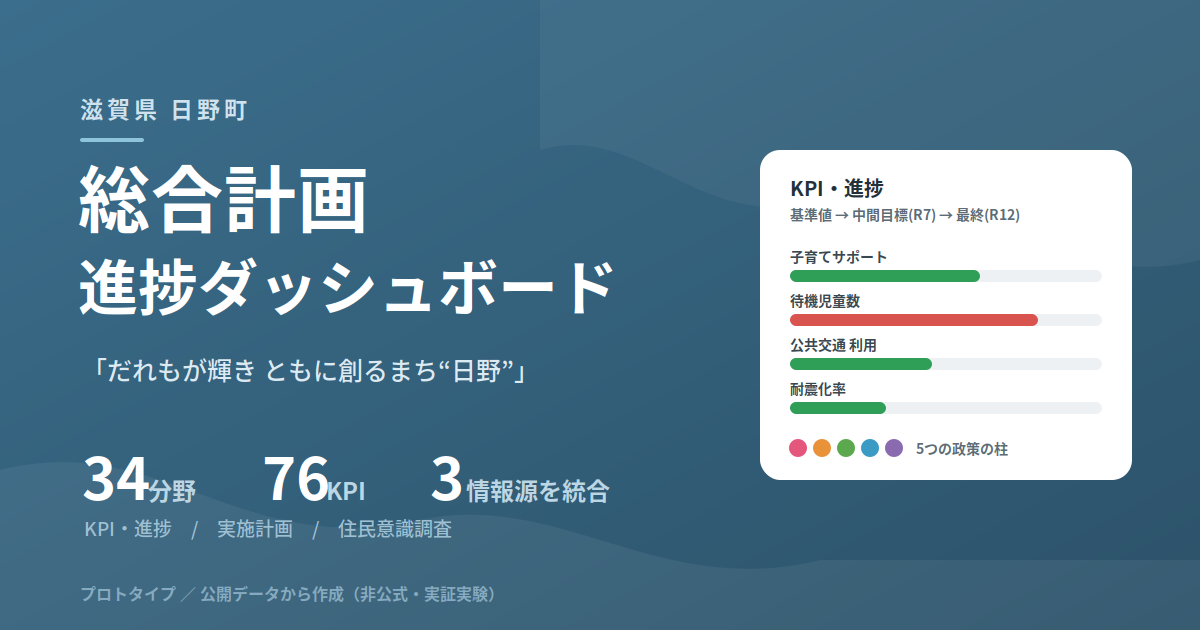
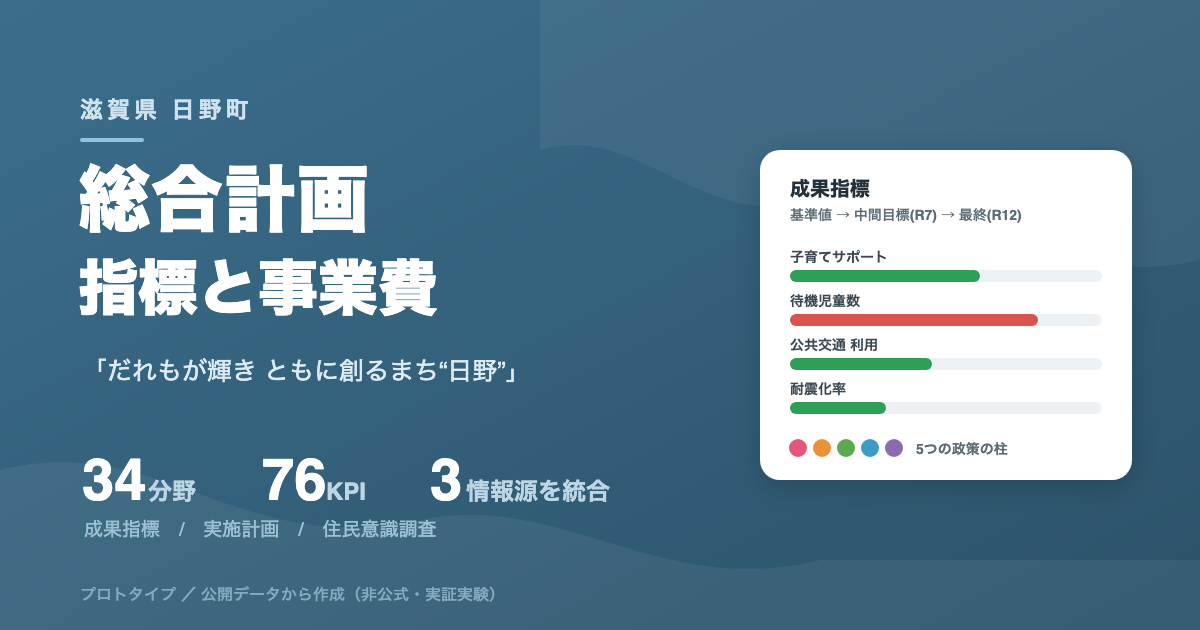
ページ名から「進捗」を外し、ポータルの見出し「指標と事業費」に合わせる
実績値を収録していないため、ページ名・<title>・OGP・見出しを「第6次日野町総合計画 指標と事業費」とし、
タブ名「KPI・進捗」を「成果指標」にする。README と OGP 画像（ogp.svg、ogp.png、assets/ogp.png）も合わせる。
ogp.png は ogp.svg から Playwright で書き出した。Mac で書き出したため、書体は前の画像と異なる。

diff --git a/assets/app.js b/assets/app.js
@@ -1,4 +1,4 @@
-/* ===== 第6次日野町総合計画 進捗ダッシュボード ===== */
+/* ===== 第6次日野町総合計画 指標と事業費 ===== */
 (function(){
   const PC = {}; KPI.pillars.forEach(p=>PC[p.id]=p);
   const fmt = n => n==null ? '—' : n.toLocaleString('ja-JP');
@@ -18,7 +18,7 @@
 
   /* 達成度（向き考慮）: 基準→中間目標 をゴールとし、現在地は持っていないので
      「目標が基準からどれだけ改善方向に動くか＝目標の野心度」を中間目標到達=100%として表示する。
-     現状値が無いため、ここでは基準値→R7目標の進捗バーは『目標の位置』を示す。 */
+     現状値が無いため、ここでは基準値→R7目標のバーは『目標の位置』を示す。 */
   function targetProgress(ind){
     // 改善方向に向けて 基準→最終目標 のスパンの中で 中間目標(R7)がどこか（％）
     const b=ind.baseline, mid=ind.target_mid, fin=ind.target_final;
@@ -68,7 +68,7 @@
       </div>
 
       <p class="lead" style="margin-top:18px">
-        ※ 各タブで詳細を確認できます。<b>KPI・進捗</b>＝分野別の成果指標と目標、<b>実施計画</b>＝事業と予算、<b>住民の声</b>＝意識調査の結果。
+        ※ 各タブで詳細を確認できます。<b>成果指標</b>＝分野別の成果指標と目標、<b>実施計画</b>＝事業と予算、<b>住民の声</b>＝意識調査の結果。
       </p>`;
   }
 
@@ -112,8 +112,8 @@
       </div>`;
     }).join('');
     el.innerHTML=`
-      <h2 class="sec">KPI・進捗 — 分野別の成果指標（基本計画）</h2>
-      <p class="lead">バーは、各指標の <b>基準値</b> から <b>最終目標(R12)</b> までを区間としたときに、<b>中間目標(R7)</b> がどこに位置するか（目標の置き方）を示します。バーは目標の位置であり、実績の進捗ではありません。このダッシュボードは各指標の実績値を収録していません。改善の向きは指標ごとに異なるため、矢印と文言で示しています（▲増加で改善 ／ ▼減少で改善 ／ ＝維持・中立）。実績値が公表されれば、達成度（達成／未達）を色で重ねられます。基準値の年次は分野により異なります（各指標に併記）。</p>
+      <h2 class="sec">成果指標 — 分野別の基準値と目標値（基本計画）</h2>
+      <p class="lead">バーは、各指標の <b>基準値</b> から <b>最終目標(R12)</b> までを区間としたときに、<b>中間目標(R7)</b> がどこに位置するか（目標の置き方）を示します。バーは目標の位置であり、実績の達成状況ではありません。このダッシュボードは各指標の実績値を収録していません。改善の向きは指標ごとに異なるため、矢印と文言で示しています（▲増加で改善 ／ ▼減少で改善 ／ ＝維持・中立）。実績値が公表されれば、達成度（達成／未達）を色で重ねられます。基準値の年次は分野により異なります（各指標に併記）。</p>
       ${chips}
       <div class="grid">${cards}</div>`;
     el.querySelectorAll('[data-pf]').forEach(b=>b.onclick=()=>{kpiFilter=+b.dataset.pf; renderKpi(); animateBars(el);});

diff --git a/index.html b/index.html
@@ -3,9 +3,9 @@
 <head>
 <meta charset="UTF-8">
 <meta name="viewport" content="width=device-width, initial-scale=1.0">
-<title>第6次日野町総合計画 進捗ダッシュボード（プロトタイプ）</title>
-<meta property="og:title" content="第6次日野町総合計画 進捗ダッシュボード">
-<meta property="og:description" content="KPI・実施計画・住民意識調査を34分野で横断する進捗ダッシュボード（プロトタイプ）">
+<title>第6次日野町総合計画 指標と事業費（プロトタイプ）</title>
+<meta property="og:title" content="第6次日野町総合計画 指標と事業費">
+<meta property="og:description" content="KPI・実施計画・住民意識調査を34分野で横断するダッシュボード（プロトタイプ）">
 <meta property="og:type" content="website">
 <meta property="og:url" content="https://kken78.github.io/hino-plan-dashboard/">
 <meta property="og:image" content="https://kken78.github.io/hino-plan-dashboard/ogp.png">
@@ -163,14 +163,14 @@ h2.sec::before{content:""; width:5px; height:20px; background:var(--blue900); bo
 <body>
 <header class="site"><div class="wrap">
   <span class="eyebrow">滋賀県日野町 / 第6次総合計画（令和3〜12年度）</span>
-  <h1>総合計画 進捗ダッシュボード</h1>
+  <h1>総合計画 指標と事業費</h1>
   <div class="vision">将来像「時代の変化に対応し だれもが輝き ともに創るまち“日野”」</div>
   <span class="proto-tag">プロトタイプ ／ 公開PDFから独自抽出・非公式</span>
 </div></header>
 
 <nav class="tabs"><div class="wrap" role="tablist">
   <button class="tab" role="tab" aria-selected="true" data-tab="overview">概要</button>
-  <button class="tab" role="tab" aria-selected="false" data-tab="kpi">KPI・進捗</button>
+  <button class="tab" role="tab" aria-selected="false" data-tab="kpi">成果指標</button>
   <button class="tab" role="tab" aria-selected="false" data-tab="plan">実施計画</button>
   <button class="tab" role="tab" aria-selected="false" data-tab="survey">住民の声</button>
 </div></nav>
